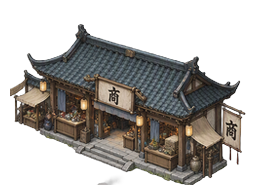
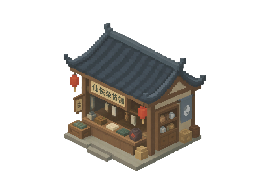
v2.6.0 逆尘：建筑像素化启动 + 双面分派
续 v2.5.0（地面 33/33 收口），本版开始重出建筑，并先拆掉挡在前面的技术阻塞。

一、⚠⚠ 解决"素材自带双面 + 代码补侧面"的叠加（本版最关键）
- 背景：v1.9.3 起 explore._drawStructure 会在建筑**之前**用代码画一个
  "右后侧面"平行四边形，把**正视**素材撑成立方体观感；
  而新素材是**像素等距建筑（自带两个可见面）** → 直接接入会画**两份侧面**。
- 修法：新增 art.js: A.ISO_NATIVE（**显式键表**）+ A.isIsoNative(key)；
  _drawStructure 改成 `if (ISO_ON && !_isoNative)` 才补代码侧面。
- ⚠ **不要用"底边宽/最大宽"自动猜**：实测该比值受图上装饰（石狮/树/灯笼）
  影响，不可靠。**显式登记**才能一眼查、可断言、换素材时不会忘。
- ⚠ **"换素材"与"登 ISO_NATIVE"必须同一次提交**：
  登错 → 该建筑**失去右侧面**（像贴纸）；漏登 → **多一份侧面**（双份）。
  两者都**静默**，只有截图能看出来。

二、⚠ 切图重采样名单从"前缀"改成"显式键表"（踩了坑才改）
- v2.2.0 用 PIXEL_PREFIXES = ('ground.',) 做前缀匹配。本轮加 'struct.' 后
  **连带把还没重出的 6 张正视建筑**（gate/hall/inn/ruin/temple/tower）
  也按 NEAREST 重采样了一遍 —— 高清明细图被硬降采样，**悄悄变差**，
  而 diff 只有一行 "Bin ... changed"，看不出原因。
- 改成 PIXEL_KEYS（显式键表）+ is_pixel_key(key) = key in PIXEL_KEYS。
  **每换一张素材就加一行，与之同一次提交。**
- 核对手段：git status --short www/assets/img/ | grep -v "<本次要改的前缀>" 应为 0。

三、契约更新（iso.art）+ 反例验证
- 判据从"某句注释文字"改成**行为的存在**：① 侧面代码仍在
  ② 条件表达式确为 `if (ISO_ON && !_isoNative)` ③ 取图键 _artKey 有算。
- 反例验证通过（去掉 !_isoNative → 立刻报）。
- 教训：只查 indexOf('isIsoNative') 会**假绿**（符号在别处也有）；
  源码闸切片锚点也用函数定义（_drawStructure: function）而非注释文字。

四、建筑 5/20 已重出并接入（像素等距、透明底、自带双面）
- struct.house 民居 / struct.apothecary 药铺 / struct.shop 杂货铺 /
  struct.smithy 铁匠铺 / struct.alchemy 丹房。
- 出图公式：主题 + PIXEL_PROMPT（8x8 大方块；建筑不要 16x16，太细则门窗读不出）
  + "俯视 45 度等距视角，能同时看到屋顶和正面两个面。纯透明背景，建筑完整居中。"

五、回归
smoke / playthrough / rebirth / dungeon-run / secret-test / zone-curve 全过。
变更范围核对为 5 张 struct + 手改的脚本。
[…]

diff --git a/tools/smoke.js b/tools/smoke.js
@@ -13086,17 +13086,34 @@ step(function () {
     }
   }
 
-  /* ③ 建筑侧面：源码闸（必须有等距侧面 + 用世界坐标 _proj） */
+  /* ③ 建筑侧面：源码闸（必须有等距侧面 + 用世界坐标 _proj）
+     ⚠ v2.6.0：判据从"某句注释文字"改成**行为的存在**（G55 的教训：
+        查字面量会因改注释而假红/假绿）。现在要断三件事：
+          ① 侧面那段代码仍在（`_proj` 投 4 个角 + 四边形填充）
+          ② 它**受 `isIsoNative` 分流控制**（像素等距建筑跳过，避免双份侧面）
+          ③ 分流用的取图键计算存在（否则分流永远拿到 null） */
   {
     const src = fs.readFileSync(path.join(WWW, 'js/core/explore.js'), 'utf8');
-    if (src.indexOf('等距侧面（v1.9.3）') < 0) {
+    if (src.indexOf('_proj') < 0 || src.indexOf('closePath') < 0) {
       errors.push('等距美术：`_drawStructure` 缺"等距侧面"（建筑只有正面，读不出立方体）');
-    } else {
-      /* ⚠ 段末模式不能写 `\n        \}`（缩进在实际文件里是 8 空格，且后面还有代码）——
-         取"注释起点 + 1400 字"即可，判据是**里面有没有世界坐标与四边形**。 */
-      const gi2 = src.indexOf('等距侧面（v1.9.3）');
-      const body = gi2 < 0 ? '' : src.slice(gi2, gi2 + 1400);
-      if (!body) errors.push('等距美术：找不到等距侧面代码段');
+    } else if (!/if\s*\(\s*ISO_ON\s*&&\s*!_isoNative\s*\)/.test(src)) {
+      /* ⚠ 判据必须是**那个条件表达式本身**，不能只查 `isIsoNative` 出现过
+         （G43 的教训：只查符号名 → 同符号在别处出现就恒真 → 假绿）。
+         实测：把条件改回 `if (ISO_ON)` 而只保留 `_isoNative` 的定义，
+         "查符号"版闸门**不报**。 */
+      errors.push('等距美术：建筑侧面未按 `!isoNative` 分流（或条件被改）——'
+        + '像素等距建筑会与代码补的侧面**叠加成双份**');
+    } else if (src.indexOf('_artKey') < 0) {
+      errors.push('等距美术：`_drawStructure` 未算出取图键（`_artKey`）—— `isIsoNative` 会永远拿到 undefined');
+    }
+    {
+      /* ⚠ **锚点用代码不用注释文字**（老坑：注释一改，闸门就找不到左界 → 静默通过）。
+         左界 = `_drawStructure` 的函数定义；右界 = 下一个方法 `_drawPlaque`。
+         取整段函数体，判据是"里面有没有世界坐标与四边形"。 */
+      const gi2 = src.indexOf('_drawStructure: function');
+      const gj2 = src.indexOf('_drawPlaque');
+      const body = (gi2 >= 0 && gj2 > gi2) ? src.slice(gi2, gj2) : '';
+      if (!body) errors.push('等距美术：切不出 `_drawStructure` 函数体（锚点失效）');
       else {
         /* 侧面 4 角必须用建筑的世界坐标（`s.x * TILE`），不许写 `_proj(0, 0)` */
         if (body.indexOf('s.x * TILE') < 0) {

diff --git a/www/js/core/explore.js b/www/js/core/explore.js
@@ -2124,16 +2124,28 @@
         var bx0 = px + (art.ox || 0), by0 = py + (art.oy || 0);
         var bw0 = art.w, bh0 = art.h;
 
-        /* ===== 等距侧面（v1.9.3）：给建筑补"第二个可见面" =====
-           **为什么需要**：现有 art（`A.house`）画的是"正视前视图"，
-           等距下仍是一张平面图 —— 没有"两个可见面"，就读不出"立方体"。
+        /* ===== 等距侧面（v1.9.3；v2.6.0 起按素材分流）=====
+           **为什么需要**：**正视**素材（`A.house` 程序化 / 旧 `struct.*`）在等距下
+           仍是一张平面图 —— 没有"两个可见面"，读不出"立方体"。
            **做法**：在 art **之前**先画一个"右后侧面"的平行四边形（屏幕系，
            用 `_proj` 投 4 个角），art 再盖在上面 →
            观感变成"正面（art）+ 右后侧面（新增）+ 屋顶（art 自带）"。
            ⚠ 必须在 art **之前**画，否则侧面会盖住正面。
            ⚠ 坐标一律用**绝对世界像素**（`_proj` 收的是绝度坐标）——
-              写 `_proj(0, 0)` 是"世界的原点"，不是"建筑的左下角"（踩过）。 */
-        if (ISO_ON) {
+              写 `_proj(0, 0)` 是"世界的原点"，不是"建筑的左下角"（踩过）。
+
+           ⚠⚠ **v2.6.0：像素等距建筑必须跳过这一段**。
+             新出的像素建筑素材**自带两个可见面**，再补一个代码侧面会变成
+             **两份侧面**（位置还错开，一眼就假）。
+             分流判据 = `G.Art.isIsoNative(取图键)`（显式登记，见 art.js: A.ISO_NATIVE）
+             —— **不要按"底边宽/最大宽"自动猜**：实测该比值受图上装饰
+             （石狮/树/灯笼）影响，不可靠。 */
+        var _artKey = null;
+        if (s.kind === 'house') _artKey = 'struct.' + (s.bk || s.kind || 'house');
+        else if (s.kind === 'gate') _artKey = 'struct.' + (s.bk || 'gate');
+        else if (s.kind === 'ruin') _artKey = 'struct.ruin';
+        var _isoNative = !!(G.Art.isIsoNative && G.Art.isIsoNative(_artKey));
+        if (ISO_ON && !_isoNative) {
           var wallG = (pal && pal.dark) || '#3a2f22';
           var wx0 = s.x * TILE;                 /* 建筑左下角（世界像素，绝对值） */
           var wy0 = s.y * TILE;

diff --git a/www/js/core/art.js b/www/js/core/art.js
@@ -1233,6 +1233,34 @@
     }).c;
   }
 
+  /* ===== 「素材自带等距双面」清单（v2.6.0）=====
+     背景：v1.9.3 起，`explore._drawStructure` 会在**建筑之前**用代码画一个
+     "右后侧面"平行四边形，把"正视平面图"撑成立方体观感。
+     但现在素材**重出为像素等距建筑**（自带两个可见面）——
+     两者叠加会画**两份侧面**（代码画一份 + 素材自带一份，位置还错开）。
+
+     ⚠ 判定必须**显式登记**，不要用"猜"：
+       · 曾试过按"底边宽 / 最大宽"比值自动判（`_gen/_probe_iso_asset.js`），
+         但实测比值受图上装饰（石狮/树/灯笼）影响，**不可靠**。
+       · 显式登记的东西：① 一眼可查 ② 契约可断言 ③ 换素材时不会忘。
+
+     用法：某逻辑名的素材**已经画了等距双面** → 加进这个 Set，
+     `explore._drawStructure` 就**跳过**代码补侧面那一段。 */
+  A.ISO_NATIVE = {
+    /* v2.6.0 起新出的像素等距建筑（deepkey 出图，自带两个可见面）。
+       ⚠ 这里**只登已经真的换成像素等距素材**的键 —— 登错了会让那栋建筑
+          **失去右侧面**（看起来像贴纸）；漏登则**多出一份代码侧面**（双份）。
+       两者都是静默的视觉错误，所以「换素材」与「登这里」必须**同一次提交**完成。 */
+    'struct.house': 1,
+    'struct.apothecary': 1,
+    'struct.shop': 1,
+    'struct.smithy': 1,
+    'struct.alchemy': 1,
+    /* ⏳ 仍是旧正视素材（未重出）：gate / inn / hall / ruin / temple / tower
+       —— 它们**不在**表里，`_drawStructure` 仍会给它们补代码侧面。 */
+  };
+  A.isIsoNative = function (key) { return !!A.ISO_NATIVE[key]; };
+
   A.house = function (s, pal) {
     var W = s.w * A.TILE, H = s.h * A.TILE;
     /* 素材取图键：`struct.<bk>` 优先（药铺 / 铁匠铺 / 丹房…），

diff --git a/www/js/core/ns.js b/www/js/core/ns.js
@@ -3,7 +3,7 @@ window.G = window.G || {};
 /* 游戏内版本号（标题「关于」与关于页显示）。
    ⚠ **必须与 HANDOVER.md 头部「代码版本」一致** —— 它从 v0.0.2 起就没再同步过，
    一直显示成初始占位（v0.12.0 才发现）。由 smoke 的 `version.contract` 钉住。 */
-G.VERSION = 'v2.5.0';
+G.VERSION = 'v2.6.0';
 
 /* ===== 像素风开关（v2.0.0）=====
    用户口径：「转成像素风格，但是现在的素材不要丢弃，可以作为对话或者动画的原图，

diff --git a/tools/assets-build.py b/tools/assets-build.py
@@ -367,17 +367,33 @@ BG_KEYS = set(k for k in SIZES if k.startswith('bg.') or k.startswith('ground.')
 # ⚠ 只列**本版起改为像素风**的类别；图标/道具等仍是高清素材，继续走 LANCZOS
 #    （它们本来就是小尺寸平滑图，用 NEAREST 会产生锯齿反而更丑）。
 # ⚠ 每重出一类像素素材，就把它的前缀加进这里。
-# ⚠ 只列**已经真的重出为像素风**的类别。**不要提前把未来的类别加进来**：
-#    这份名单同时决定"重建时用哪种重采样"，而**重建会重采样全部已登记素材** ——
-#    把还是高清的类别（battle.* / char.* / struct.* / prop.* …）提前列进来，
-#    会让它们被 NEAREST 重采样一次（无意义的劣化，且 diff 里看不出原因）。
-#    实测踩过：加进来重建一次，67 个 battle/char/struct 文件的二进制全变了。
-#    ⇒ **每重出一类，才加一类**（并在同一次提交里完成）。
-PIXEL_PREFIXES = ('ground.',)
+# ⚠⚠ 只列**已经真的重出为像素风**的键。**不要按前缀图省事**。
+#
+# 为什么用**显式键表**而不是前缀（v2.6.0 踩出来的）：
+#   前缀匹配（`struct.`）会**连带**把同类别里**还没重出**的素材（struct.gate /
+#   hall / inn / ruin / temple / tower）也按 NEAREST 重采样一次 ——
+#   它们本来是高清明细图，被硬降采样后**悄悄变差**，而 diff 里只有一行 "Bin ... changed"，
+#   完全看不出原因。实测：一次重建误伤 6 张。
+#   ⇒ 显式键表 + "改素材的同时改这张表"，两者**同一次提交**。
+#
+# 判定：像素类走 `Image.NEAREST`（保硬边），其余走 `Image.LANCZOS`（抗锯齿）。
+#   LANCZOS 会把像素画的硬色块插值成渐变 → 像素感在**切图这一步**就被磨平。
+PIXEL_KEYS = set([
+    # 地面（v2.2.0~v2.5.0 全部重出）：29 区域 + 4 兜底
+    'ground.fan1', 'ground.fan2', 'ground.fan3', 'ground.fan4', 'ground.fan5',
+    'ground.fan6', 'ground.fan7', 'ground.fan8', 'ground.fan9', 'ground.fan10',
+    'ground.ling1', 'ground.ling2', 'ground.ling3', 'ground.ling4', 'ground.ling5',
+    'ground.xian1', 'ground.xian2', 'ground.xian3', 'ground.xian4', 'ground.xian5',
+    'ground.xian6', 'ground.xian7', 'ground.xian8', 'ground.xian9',
+    'ground.dao1', 'ground.dao2', 'ground.dao3', 'ground.dao4', 'ground.dao5',
+    'ground.town', 'ground.grass', 'ground.cave', 'ground.bloodcave',
+    # 建筑（v2.6.0 起逐张重出；**换一张就加一行**）
+    'struct.house', 'struct.apothecary', 'struct.shop', 'struct.smithy', 'struct.alchemy',
+])
 
 
 def is_pixel_key(key):
-    return bool(key) and key.startswith(PIXEL_PREFIXES)
+    return bool(key) and key in PIXEL_KEYS
 # 地图角色的三帧：同一张图登记三次，动感由引擎的上下浮动提供
 HERO_DIRS = ['down', 'up', 'left', 'right']
 PAD = 0.04          # 外接框四周留白比例（防止描边贴边被切）

diff --git a/HANDOVER.md b/HANDOVER.md
@@ -1,6 +1,45 @@
 # 《逆尘》开发交接文档
 
-> 最后更新：2026-10-09 · 代码版本 **v2.5.0（地面 33 张全部像素化完成）** · 设计基线 **GDD v4.0（文档归档重构）** · 前一里程碑 v2.4.2
+> 最后更新：2026-10-09 · 代码版本 **v2.6.0（建筑像素化启动 + 双面分派）** · 设计基线 **GDD v4.0（文档归档重构）** · 前一里程碑 v2.5.0
+>
+> **【v2.6.0 建筑像素化启动 + 解决"双面叠加"阻塞 2026-10-09】**
+> 续 v2.5.0（地面 33/33 收口），本版开始重出建筑，并**先拆掉挡在前面的技术阻塞**。
+>
+> **① ⚠⚠ 解决"素材自带双面 + 代码补侧面"的叠加（本版最关键）**
+> · 背景：v1.9.3 起 `explore._drawStructure` 会在建筑**之前**用代码画一个
+>   "右后侧面"平行四边形，把**正视**素材撑成立方体观感。
+>   而现在的新素材是**像素等距建筑（自带两个可见面）** → 直接接入会画**两份侧面**。
+> · 修法：新增 `art.js: A.ISO_NATIVE`（**显式键表**）+ `A.isIsoNative(key)`；
+>   `_drawStructure` 改成 `if (ISO_ON && !_isoNative)` 才补代码侧面。
+> · ⚠ **不要用"底边宽 / 最大宽"自动猜**：实测该比值受图上装饰
+>   （石狮/树/灯笼）影响，**不可靠**（`_gen/_probe_iso_asset.js` 只作参考）。
+>   **显式登记**才能一眼查、可断言、换素材时不会忘。
+> · ⚠ **"换素材"与"登 ISO_NATIVE"必须同一次提交**：
+>   登错 → 那栋建筑**失去右侧面**（像贴纸）；漏登 → **多一份侧面**（双份）。
+>   两者都**静默**，只有截图能看出来。
+>
+> **② ⚠ 切图重采样名单从"前缀"改成"显式键表"（踩了坑才改）**
+> · v2.2.0 用 `PIXEL_PREFIXES = ('ground.',)` 前后缀匹配。本轮加 `'struct.'` 后
+>   **连带把还没重出的 6 张正视建筑**（gate/hall/inn/ruin/temple/tower）
+>   也按 NEAREST 重采样了一遍 —— 高清明细图被硬降采样，**悄悄变差**，
+>   而 diff 只有一行 `Bin ... changed`，看不出原因。
+> · 改成 `PIXEL_KEYS`（**显式键表**）+ `is_pixel_key(key) = key in PIXEL_KEYS`。
+>   **每换一张素材就加一行，与之同一次提交。**
+> · 核对手段：`git status --short www/assets/img/ | grep -v "<本次要改的前缀>"` 应为 0。
+>
+> **③ 契约更新（`iso.art`）**：判据从"某句注释文字"改成**行为的存在**
+> —— 断 ① 侧面代码仍在 ② 条件表达式确为 `if (ISO_ON && !_isoNative)`
+>  ③ 取图键 `_artKey` 有算。**反例验证通过**（去掉 `!_isoNative` → 立刻报）。
+> 教训：只查 `indexOf('isIsoNative')` 会**假绿**（符号在别处也有）。
+>
+> **④ 建筑 5/20 已重出并接入**（像素等距、透明底、自带双面）：
+> `struct.house` 民居 / `struct.apothecary` 药铺 / `struct.shop` 杂货铺 /
+> `struct.smithy` 铁匠铺 / `struct.alchemy` 丹房。
+> 出图公式：`主题 + PIXEL_PROMPT（8x8 大方块）+ 俯视45度等距双面 + 纯透明背景`。
+>
+> **⑤ 待办**：建筑剩余 15 张（gate/inn/hall/ruin/temple/tower 等）
+> → 行走精灵 33 → 立绘 48。
+
 >
 > **【v2.5.0 地面素材全部收口：33/33 张均为像素版 2026-10-09】**
 > 续 v2.4.x（deepkey-image 出图），本版把剩下的 **仙界 3 张（xian7/8/9）+ 道界 5 张
@@ -2240,6 +2279,17 @@ node_modules/
 > 比这里记得全）。想回溯那几轮就 `git log --oneline` 挑出来 `git show <sha>`。
 > 下面是 v2.1.0 / v2.0.0 / v0.66.0 与更早的 v0.43.0。
 > （v1.0.0 – v1.9.5 的等距化整段说明也在**提交正文**与**头部增量块**里。）
+
+### v2.6.0：建筑像素化启动 + 双面分派（2026-10-09）
+
+1. **解决"素材自带双面 + 代码补侧面"叠加**：新增 `A.ISO_NATIVE`（显式键表）+
+   `isIsoNative()`；`_drawStructure` 改为 `if (ISO_ON && !_isoNative)`。
+   ⚠ 换素材与登记必须同一次提交。
+2. **切图重采样名单改为显式键表** `PIXEL_KEYS`（前缀匹配会误伤同类未重出的素材，
+   实测一次重建把 6 张高清建筑硬降采样）。
+3. **契约 `iso.art` 判据从注释文字改成行为**，并做反例验证。
+4. **建筑 5/20 接入**：house / apothecary / shop / smithy / alchemy。
+5. 待办：建筑 15 张 → 行走精灵 33 → 立绘 48。
 
 ### v2.5.0：地面素材全部收口 33/33（2026-10-09）
 
